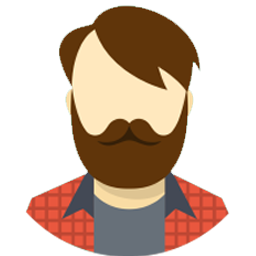
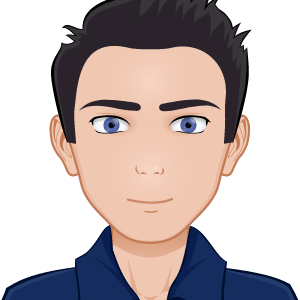
header and navbar done

diff --git a/src/components/Navbar.js b/src/components/Navbar.js
@@ -1,17 +1,18 @@
 import React, { useState } from "react"
 import { Box, AppBar, Toolbar, IconButton, Typography, Avatar, makeStyles, Divider, List, ListItem, ListItemIcon, ListItemText, Drawer } from "@material-ui/core"
-import { ArrowBack, Home, AssignmentInd, Apps, ContactMail } from "@material-ui/icons"
+import { Home, AssignmentInd, Apps, ContactMail, MenuOpenRounded } from "@material-ui/icons"
 import avatar from "./images/avatar.png"
 
 // CSS Styles
 const useStyles = makeStyles(theme => ({
     menuSliderContainer: {
-        width: 250,
+        width: "65vw",
+        maxWidth: "300px",
         background: "#511",
         height: "100%"
     },
     avatar: {
-        display: "block",
+        // display: "block",
         margin: "0.5rem auto",
         width: theme.spacing(13),
         height: theme.spacing(13)
@@ -52,7 +53,7 @@ const Navbar = () => {
             <Divider />
             <List disablePadding>
                 {menuItems.map((lsItem, ind) => (
-                    <ListItem button key={ind} >
+                    <ListItem button key={ind} onClick={() => setState(false)}>
                         <ListItemIcon className={classes.listItem}>
                             {lsItem.listIcon}
                         </ListItemIcon>
@@ -68,15 +69,17 @@ const Navbar = () => {
         <React.Fragment>
             <Box component="nav">
                 <AppBar position="static" style={{ background: "#222" }}>
-                    <Toolbar>
-                        <IconButton onClick={() => setState(true)} >
-                            <ArrowBack style={{ color: "tomato" }} />
-                        </IconButton>
-
-                        <Typography variant="h5" style={{ color: "tan" }}>Portfolio</Typography>
+                    <Toolbar disableGutters>
+                        <Box ml={2} component="div" style={{ flex: 1 }}>
+                            <Typography variant="h5" style={{ color: "tan" }} >Portfolio</Typography>
+                        </Box>
                         <Drawer anchor="right" open={state} onClose={() => setState(false)}>
                             {sideList()}
                         </Drawer>
+
+                        <IconButton onClick={() => setState(true)} >
+                            <MenuOpenRounded style={{ color: "tomato" }} />
+                        </IconButton>
                     </Toolbar>
                 </AppBar>
             </Box >

diff --git a/src/components/Header.js b/src/components/Header.js
@@ -1,0 +1,64 @@
+import React from "react"
+import avatar from "./images/avatar.png"
+import { Box, Avatar, Typography, makeStyles, Grid } from '@material-ui/core'
+import Typewriter from "typewriter-effect"
+
+// CSS Styles
+const useStyles = makeStyles(theme => ({
+    avatar: {
+        width: theme.spacing(15),
+        height: theme.spacing(15),
+        margin: theme.spacing(1),
+    },
+    title: {
+        color: "tomato",
+    },
+    subtitle: {
+        color: "tan",
+        marginBottom: "3rem",
+    },
+    typedContainer: {
+        position: "absolute",
+        top: "50%",
+        left: "50%",
+        transform: "translate(-50%, -50%)",
+        width: "100vw",
+        textAlign: "center",
+    }
+
+}))
+
+const Header = () => {
+    const classes = useStyles()
+
+    return (
+        <Box className={classes.typedContainer}>
+            <Grid container justify="center">
+                <Avatar src={avatar} className={classes.avatar} alt="Xiaojie Li" />
+            </Grid>
+            <Typography className={classes.title} variant="h4">
+                <Typewriter
+                    onInit={(typewriter) => {
+                        typewriter.typeString("Xiaojie Li")
+                            .callFunction(() => {
+                                console.log("String typed out!");
+                            })
+                            .start();
+                    }}
+                />
+            </Typography>
+            <Typography className={classes.subtitle} variant="h5">
+                <Typewriter
+                    options={{
+                        strings: ["React Enthusiast", "Software Developer", "Web Developer"],
+                        autoStart: true,
+                        loop: true,
+                        deleteSpeed: 95,
+                    }}
+                />
+            </Typography>
+        </Box>
+    )
+}
+
+export default Header

diff --git a/src/components/Index.js b/src/components/Index.js
@@ -1,10 +1,31 @@
 import React from 'react'
 import Navbar from './Navbar'
+import Header from './Header'
+import Particles from 'react-particles-js'
+import { makeStyles } from '@material-ui/styles'
+
+// CSS STYLES
+const useStyles = makeStyles({
+    particlesCanvas: {
+        position: "absolute",
+    }
+})
 
 const Index = () => {
+    const classes = useStyles()
+
     return (
         <div>
-           <Navbar />
+            <Navbar />
+            <Particles
+                params={{
+                    number: {
+                        value: 50
+                    }
+                }}
+                canvasClassName={classes.particlesCanvas}
+            />
+            <Header />
         </div>
     )
 }

diff --git a/src/App.js b/src/App.js
@@ -1,6 +1,7 @@
 import React from 'react'
 import Index from './components/Index'
 import { CssBaseline } from '@material-ui/core'
+import "./index.css"
 
 const App = () => {
 	return (

diff --git a/src/index.css b/src/index.css
@@ -1,3 +1,3 @@
 body {
-  margin: 0;
+  background: url("./components/images/coffee-apple.jpg") no-repeat center center fixed;
 }
